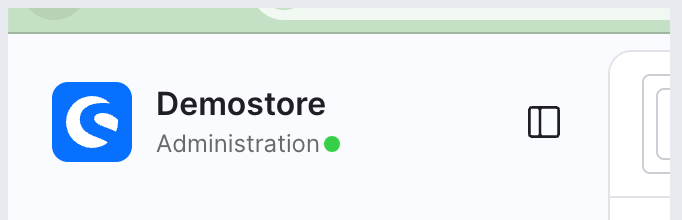
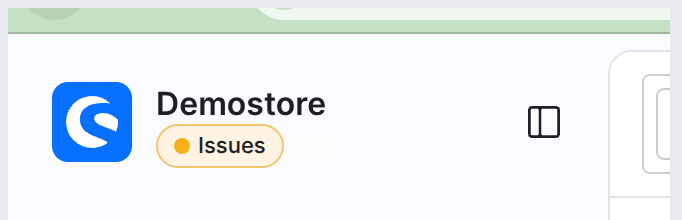
feat: show Meteor health badge only for warning and error
Replace the Administration title with an mt-badge status indicator
when health is degraded, and keep the healthy default hidden.

Changed region(s): [[0.2155, 0.5455, 0.5235, 0.7636]]

diff --git a/src/Resources/app/administration/src/module/frosh-tools/component/frosh-tools-health-status/index.spec.js b/src/Resources/app/administration/src/module/frosh-tools/component/frosh-tools-health-status/index.spec.js
@@ -8,8 +8,10 @@ import './index';
 async function createWrapper({
     canRead = true,
     health = [{ state: 'STATE_OK' }],
+    slot = '',
 } = {}) {
     return mountShopwareComponent('frosh-tools-health-status', {
+        slots: slot ? { default: slot } : {},
         global: {
             provide: {
                 froshToolsService: {
@@ -24,7 +26,11 @@ async function createWrapper({
                 },
             },
             stubs: {
-                'sw-color-badge': true,
+                'mt-badge': {
+                    props: ['variant', 'size', 'statusIndicator'],
+                    template:
+                        '<span class="mt-badge" :class="`mt-badge--${variant}`"><slot /></span>',
+                },
                 'router-link': {
                     template:
                         '<a class="frosh-tools-health-status"><slot /></a>',
@@ -41,15 +47,31 @@ describe('frosh-tools-health-status', () => {
     });
 
     it('skips health polling without the tools privilege', async () => {
-        const wrapper = await createWrapper({ canRead: false });
+        const wrapper = await createWrapper({
+            canRead: false,
+            slot: '<span class="fallback-title">Administration</span>',
+        });
         await flushPromises();
 
         expect(wrapper.vm.hasPermission).toBe(false);
         expect(wrapper.vm.health).toBeNull();
         expect(wrapper.find('.frosh-tools-health-status').exists()).toBe(false);
+        expect(wrapper.find('.fallback-title').exists()).toBe(true);
     });
 
-    it('maps mixed health results to the worst variant', async () => {
+    it('hides the healthy default state and keeps the fallback title', async () => {
+        const wrapper = await createWrapper({
+            health: [{ state: 'STATE_OK' }],
+            slot: '<span class="fallback-title">Administration</span>',
+        });
+        await flushPromises();
+
+        expect(wrapper.vm.isException).toBe(false);
+        expect(wrapper.find('.mt-badge').exists()).toBe(false);
+        expect(wrapper.find('.fallback-title').text()).toBe('Administration');
+    });
+
+    it('maps mixed health results to a critical badge', async () => {
         vi.useFakeTimers();
         const wrapper = await createWrapper({
             health: [
@@ -57,25 +79,29 @@ describe('frosh-tools-health-status', () => {
                 { state: 'STATE_ERROR' },
                 { state: 'STATE_OK' },
             ],
+            slot: '<span class="fallback-title">Administration</span>',
         });
         await flushPromises();
 
         expect(wrapper.vm.hasPermission).toBe(true);
-        expect(wrapper.vm.healthVariant).toBe('error');
-        expect(wrapper.vm.healthPlaceholder).toContain('May outage');
-        expect(wrapper.find('sw-color-badge-stub').exists()).toBe(true);
+        expect(wrapper.vm.isException).toBe(true);
+        expect(wrapper.vm.meteorVariant).toBe('critical');
+        expect(wrapper.vm.badgeLabel).toContain('Outage');
+        expect(wrapper.find('.mt-badge').exists()).toBe(true);
+        expect(wrapper.find('.fallback-title').exists()).toBe(false);
 
         wrapper.unmount();
     });
 
-    it('uses a warning variant when no check is in error', async () => {
+    it('uses an attention badge when no check is in error', async () => {
         const wrapper = await createWrapper({
             health: [{ state: 'STATE_OK' }, { state: 'STATE_WARNING' }],
         });
         await flushPromises();
 
-        expect(wrapper.vm.healthVariant).toBe('warning');
-        expect(wrapper.vm.healthPlaceholder).toContain('Issues');
+        expect(wrapper.vm.meteorVariant).toBe('attention');
+        expect(wrapper.vm.badgeLabel).toContain('Issues');
+        expect(wrapper.find('.mt-badge').exists()).toBe(true);
     });
 
     it('clears the poll interval on unmount', async () => {

diff --git a/src/Resources/app/administration/src/module/frosh-tools/component/frosh-tools-health-status/index.js b/src/Resources/app/administration/src/module/frosh-tools/component/frosh-tools-health-status/index.js
@@ -25,30 +25,9 @@ Component.register('frosh-tools-health-status', {
     },
 
     computed: {
-        healthVariant() {
-            let variant = 'success';
-
+        healthKey() {
             if (!this.health) {
-                return variant;
-            }
-
-            for (const item of this.health) {
-                if (item.state === 'STATE_ERROR') {
-                    variant = 'error';
-                    continue;
-                }
-
-                if (item.state === 'STATE_WARNING' && variant === 'success') {
-                    variant = 'warning';
-                }
-            }
-
-            return variant;
-        },
-
-        healthPlaceholder() {
-            if (!this.health) {
-                return this.$t('frosh-tools.healthStatus.ok');
+                return 'ok';
             }
 
             let key = 'ok';
@@ -64,7 +43,23 @@ Component.register('frosh-tools-health-status', {
                 }
             }
 
-            return this.$t(`frosh-tools.healthStatus.${key}`);
+            return key;
+        },
+
+        isException() {
+            return this.healthKey === 'warning' || this.healthKey === 'error';
+        },
+
+        meteorVariant() {
+            return this.healthKey === 'error' ? 'critical' : 'attention';
+        },
+
+        badgeLabel() {
+            return this.$t(`frosh-tools.healthStatus.badge.${this.healthKey}`);
+        },
+
+        healthPlaceholder() {
+            return this.$t(`frosh-tools.healthStatus.${this.healthKey}`);
         },
     },
 

diff --git a/src/Resources/app/administration/src/overrides/sw-admin-menu/index.spec.js b/src/Resources/app/administration/src/overrides/sw-admin-menu/index.spec.js
@@ -5,7 +5,7 @@ import {
 } from '@friendsofshopware/vitest-shopware-admin-bridge/test-utils';
 
 describe('sw-admin-menu override', () => {
-    it('injects the health badge into the trunk sidebar title status slot', async () => {
+    it('wraps the trunk sidebar title so a health badge can replace Administration', async () => {
         await loadShopwareComponent('sw-admin-menu');
         await import('./index');
 
@@ -14,12 +14,12 @@ describe('sw-admin-menu override', () => {
         expect(component).toBeTruthy();
 
         const template = String(component.template ?? component);
-        const hasTrunkStatusSlot =
-            template.includes('sw_admin_menu_header_title_status') ||
+        const hasTrunkTitle =
+            template.includes('sw_admin_menu_header_title') ||
             template.includes('sw-admin-menu__title') ||
             template.includes('frosh-tools-health-status');
 
-        if (!hasTrunkStatusSlot) {
+        if (!hasTrunkTitle) {
             // Shopware 6.6 / 6.7 keep the badge on sw-version instead.
             return;
         }

diff --git a/src/Resources/app/administration/src/module/frosh-tools/component/frosh-tools-health-status/style.scss b/src/Resources/app/administration/src/module/frosh-tools/component/frosh-tools-health-status/style.scss
@@ -1,18 +1,11 @@
 .frosh-tools-health-status {
     display: inline-flex;
     align-items: center;
-    margin-inline-start: 4px;
-    vertical-align: middle;
-    line-height: 0;
+    max-width: 100%;
     text-decoration: none;
+    line-height: 1;
 
-    .sw-color-badge {
-        display: inline-block;
-        margin: 0;
+    .mt-badge {
+        max-width: 100%;
     }
-}
-
-.sw-admin-menu.is--collapsed .frosh-tools-health-status,
-.frosh-tools-health-status.is--collapsed {
-    margin-inline-start: 0;
 }

diff --git a/README.md b/README.md
@@ -113,7 +113,7 @@ Dedicated list/detail UI for Shopware webhooks (including inline search).
 
 ### Status badge in the Admin sidebar
 
-A compact **health status** (success / warning / error) sits next to the Administration title in the sidebar so problems surface without opening Tools. On Shopware 6.6 / 6.7 this uses the `sw-version` status slot; on current trunk it uses the `sw-admin-menu` header title status slot.
+When health is warning or error, the sidebar **Administration** title is replaced with an `mt-badge` (status indicator + short label) that links to Tools. The healthy default stays hidden so a green “OK” is not shown all the time. On Shopware 6.6 / 6.7 the same component fills the `sw-version` status slot; on trunk it wraps the `sw-admin-menu` header title.
 
 ### Console commands
 
